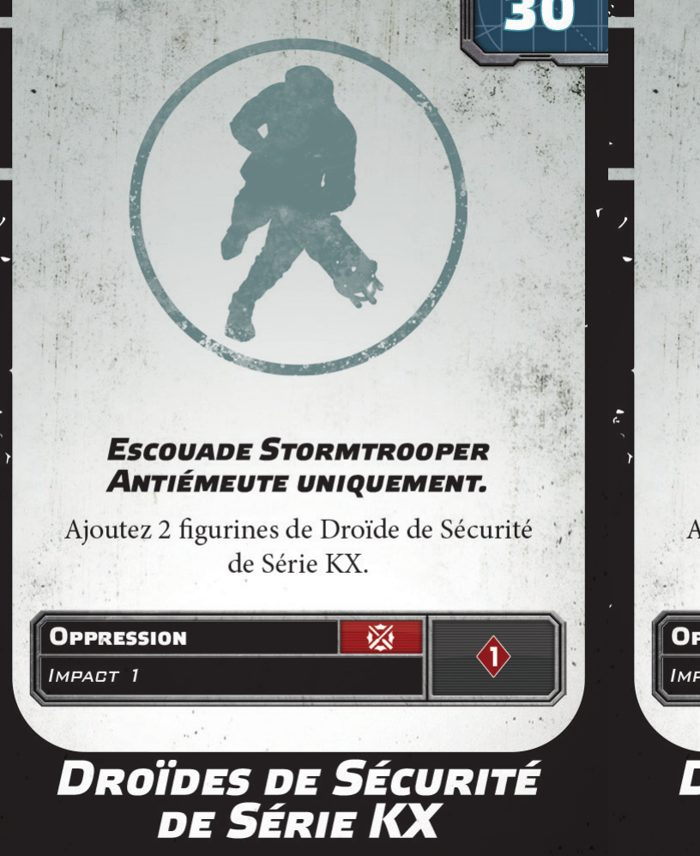
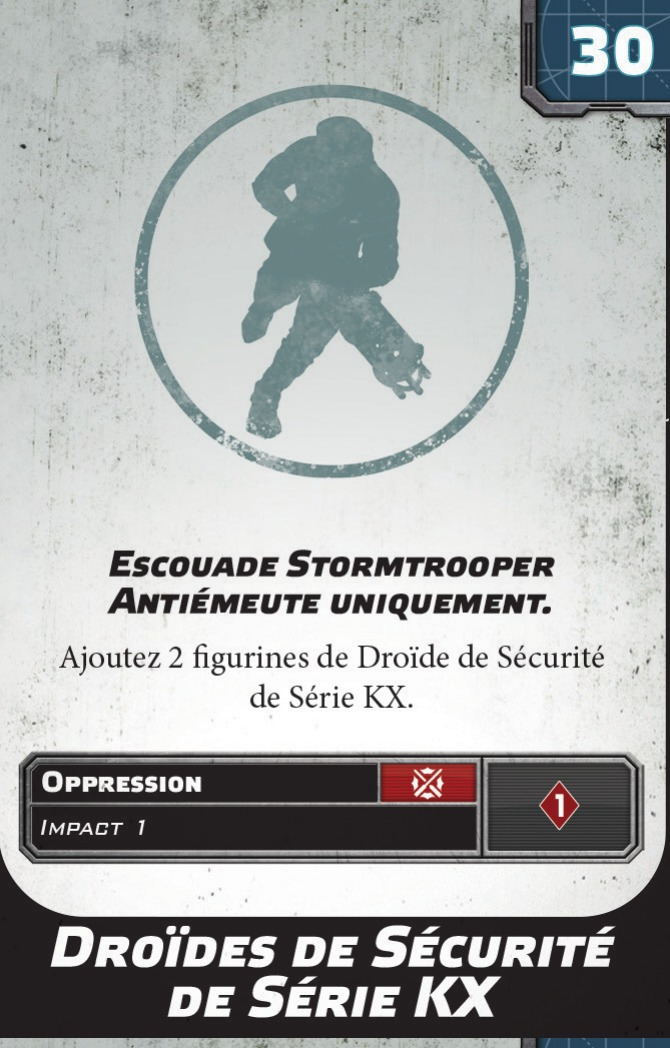
Corrige 3 cartes Amélioration manquantes + le recadrage cassé de KX-Series
Suite au signalement fait en testant l'appendice des fiches d'unité avec
une vraie liste (10 unités, 17 améliorations distinctes) : 10 cartes
n'avaient ni visuel ni mots-clés, et le visuel de KX-Series Security
Droids débordait sur la carte voisine de la grille d'impression source.

Trouvées et corrigées depuis Galactic_Empire_Upgrades_FR.pdf (13 pages,
aucune couche de texte — repérage entièrement visuel page par page) :

- AT-ST Mortar Launcher (« Lance-mortier de TR-TT », p.11) : Suppressif.
- Stormtrooper Squad (« Escouade Stormtrooper », p.6-7) : Indomptable —
  le reste du texte de la carte (portée de cohésion à ①, restriction
  Transport) n'est pas un mot-clé du glossaire, non tagué (comme toute
  carte dont l'effet dépasse une liste de mots-clés).
- Snowtrooper (p.8-9) : aucun mot-clé sur la carte imprimée, confirmé —
  visuel ajouté, tagLibrary volontairement vide (documenté).
- KX-Series Security Droids (public/cards/kx-series-security-droids.jpg) :
  réextrait proprement depuis la même page (p.3) où le bug avait été trouvé.

Sept autres améliorations de cette liste (Burst of Speed, Saber Throw,
Force Choke, Imperial March, Targeting Scopes, Offensive Push, Linked
Targeting Array) restent introuvables dans les PDF actuellement fournis —
probablement des cartes Force/Personnel/Comms génériques, absentes de
Galactic_Empire_Upgrades_FR.pdf. Non ajoutées pour éviter d'inventer du
texte de règle.

- src/data/cardTags.ts : 3 nouvelles entrées + note datée en tête de
[…]

diff --git a/src/data/cardTags.ts b/src/data/cardTags.ts
@@ -70,6 +70,22 @@ import { normalizeName } from '../lib/normalize';
  * découpage d'image (page "1" confondue avec "10"/"11"/"12"/"13" par un
  * matching de nom de fichier trop permissif) avait corrompu l'image de DLT-19
  * Stormtrooper — corrigé et réextraite.
+ *
+ * 01/09/2026 (liste réelle fournie par l'utilisateur, 10 unités Empire à
+ * 1000 pts) : trois améliorations qui manquaient totalement (aucun visuel,
+ * aucun mot-clé) ajoutées depuis Galactic_Empire_Upgrades_FR.pdf — AT-ST
+ * Mortar Launcher (« Lance-mortier de TR-TT », p.11), Snowtrooper (p.8-9,
+ * aucun mot-clé sur la carte) et Stormtrooper Squad (« Escouade
+ * Stormtrooper », p.6-7). Corrigé au passage : le visuel de KX-Series
+ * Security Droids (public/cards/kx-series-security-droids.jpg) débordait
+ * sur la carte voisine de la grille d'impression (mauvais recadrage),
+ * réextrait proprement depuis la même page. Sept autres améliorations de
+ * cette liste (Burst of Speed, Saber Throw, Force Choke, Imperial March,
+ * Targeting Scopes, Offensive Push, Linked Targeting Array) restent
+ * introuvables dans les PDF actuellement fournis — probablement des cartes
+ * Force/Personnel/Comms génériques (pas spécifiques à l'Empire), absentes
+ * de Galactic_Empire_Upgrades_FR.pdf. Pas ajoutées pour éviter d'inventer
+ * du texte de règle : il faudrait la bonne source pour ces 7-là.
  */
 const RAW: Record<string, { keywordId: string; value?: number }[]> = {
   // --- Empire Galactique ---
@@ -371,6 +387,24 @@ const RAW: Record<string, { keywordId: string; value?: number }[]> = {
   ],
   'DW-3 Concussion Grenade Launcher': [
     { keywordId: 'deflagration' },
+  ],
+  // = « Lance-mortier de TR-TT » sur la carte française (AT-ST = TR-TT, voir
+  // note du 30/08/2026 en tête de fichier). Fixe : Avant non tagué, comme
+  // 88i/DW-3 ci-dessus (convention de ce fichier : ne pas tagger Fixe).
+  'AT-ST Mortar Launcher': [
+    { keywordId: 'suppressif' },
+  ],
+  // Grille imprimée uniquement "Ajoutez 1 figurine de Snowtrooper." — aucun
+  // mot-clé sur cette carte (vérifié contre Galactic_Empire_Upgrades_FR.pdf,
+  // page 8-9), contrairement à "Snowtrooper Squad" ci-dessous.
+  'Snowtrooper': [],
+  // = « Escouade Stormtrooper » sur la carte française. N'accorde que le
+  // mot-clé Indomptable ; le reste du texte de la carte (portée de cohésion
+  // à ① au lieu de ⑤, restriction Transport) n'est pas un mot-clé du
+  // glossaire et ne peut donc pas être tagué ici (comme pour toute carte
+  // dont l'effet dépasse une simple liste de mots-clés).
+  'Stormtrooper Squad': [
+    { keywordId: 'indomptable' },
   ],
   'The Darksaber': [
     { keywordId: 'impact-x', value: 1 },

diff --git a/src/data/cardImages.ts b/src/data/cardImages.ts
@@ -5,7 +5,7 @@ import { normalizeName } from '../lib/normalize';
  * des PDF fournis par l'utilisateur) affiché dans l'onglet Combat une fois
  * l'attaquant/le défenseur sélectionné.
  *
- * Couvre les 108 cartes actuellement dans cardTags.ts (mêmes 4 PDF sources :
+ * Couvre les 111 cartes actuellement dans cardTags.ts (mêmes 4 PDF sources :
  * unités et améliorations Empire/Alliance Rebelle). Même logique que
  * `cardTags.ts` : simple table nom-normalisé -> chemin d'image, à étoffer
  * au fil de l'eau à mesure que de nouvelles cartes sont taguées. Aucune
@@ -69,6 +69,11 @@ const RAW: Record<string, string> = {
   'Imperial Officer': 'imperial-officer.jpg',
   '88i Twin Light Blaster': '88i-twin-light-blaster.jpg',
   'DW-3 Concussion Grenade Launcher': 'dw-3-concussion-grenade-launcher.jpg',
+  // = « Lance-mortier de TR-TT » sur la carte française.
+  'AT-ST Mortar Launcher': 'tr-tt-mortar-launcher.jpg',
+  'Snowtrooper': 'snowtrooper-upgrade.jpg',
+  // = « Escouade Stormtrooper » sur la carte française.
+  'Stormtrooper Squad': 'stormtrooper-squad.jpg',
   'The Darksaber': 'the-darksaber.jpg',
   'Rebel Troopers': 'rebel-troopers.jpg',
   'Mark II Medium Blaster Trooper': 'mark-ii-medium-blaster-trooper.jpg',
